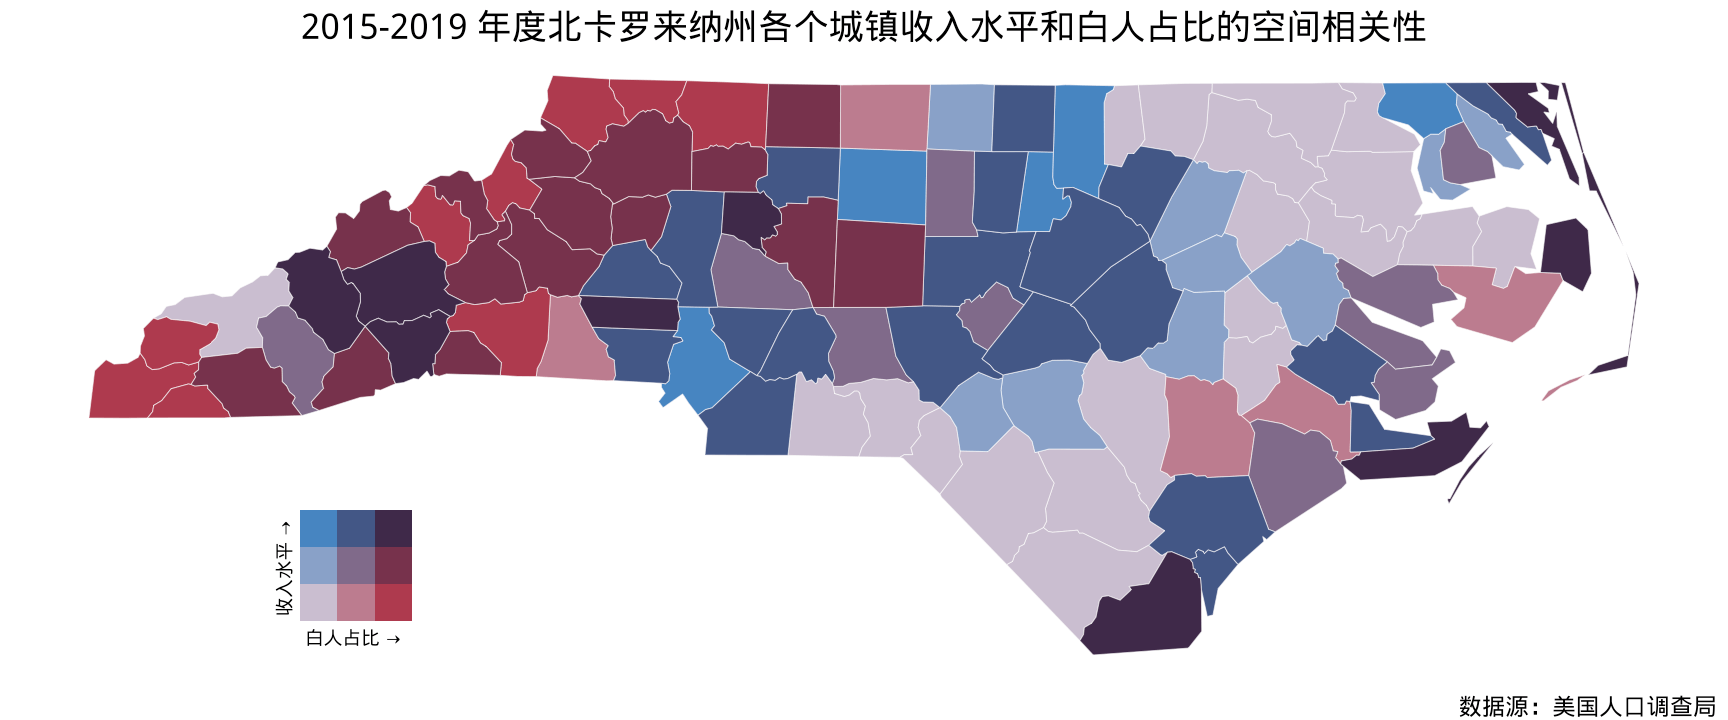
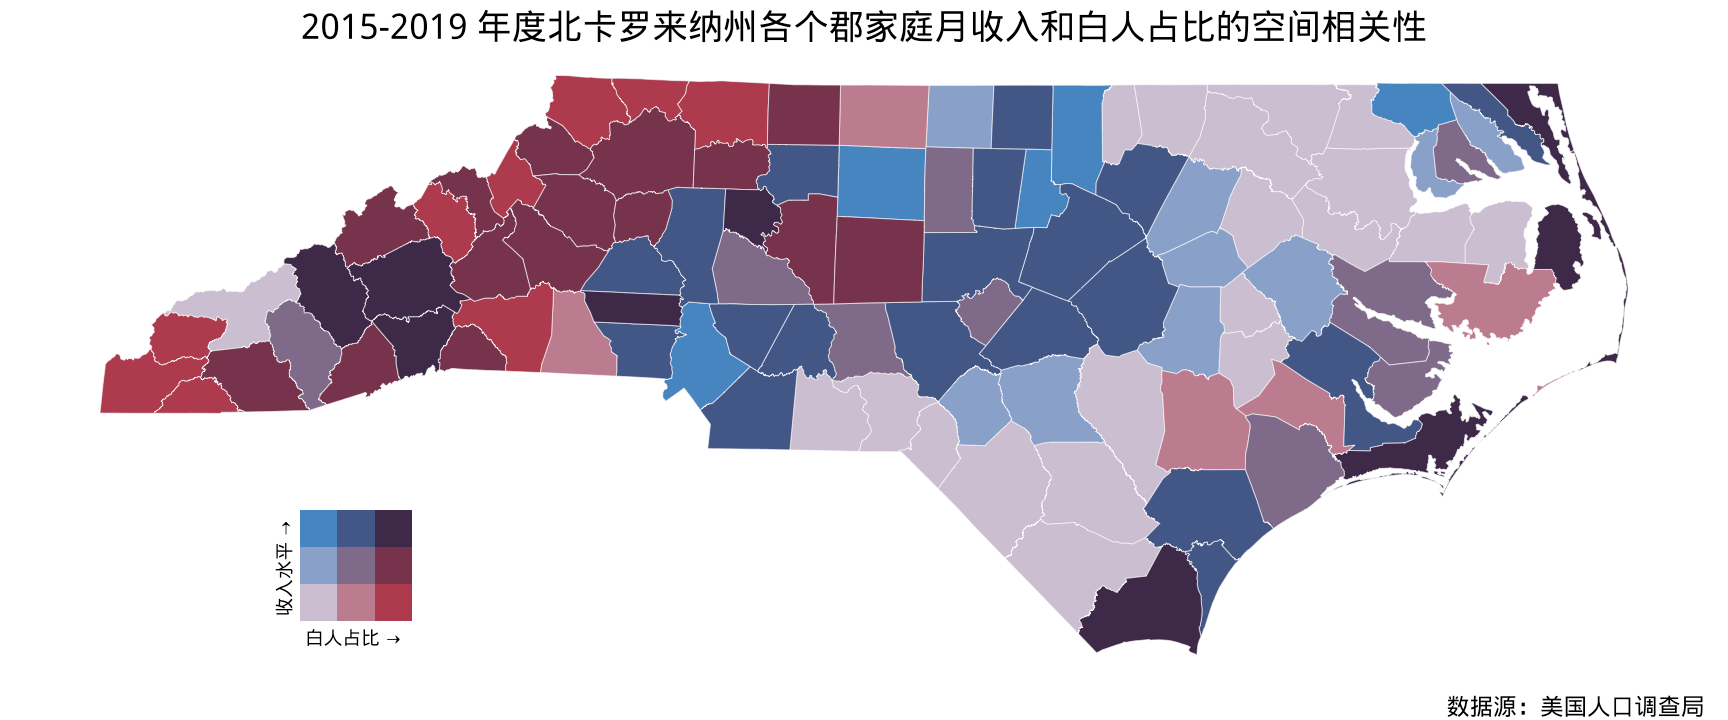
修复北卡社区级家庭月收入的空间分布图，之前手动从网站下载的地图数据有些微的问题，即 ACS 调查的年份 2019 和地图数据的年份 2020 不一致

diff --git a/content/post/2022-04-23-choropleth-map/index.html b/content/post/2022-04-23-choropleth-map/index.html
@@ -18,12 +18,12 @@ tags:
   - lattice
   - sf
   - ggplot2
-link-citations: true
-bibliography: 
-  - refer.bib
 output:
   blogdown::html_page:
     toc: true
+link-citations: true
+bibliography: 
+  - refer.bib
 forum_id: xxx
 description: "在美国和日本的国家统计局官网，地区分布图用于展示各类指标。衡量一个部门、一个业务、一个公司、一个行业，乃至一个国家都有一套金字塔式的指标体系，而国家每年发布的统计年鉴就是衡量国民经济运行状态的指标体系，涵盖人口、土地、生产、消费等等专题，省、市、区县以及自治区、州、县等各级地方统计局每年也会发布一份地方统计年鉴。"
 ---
@@ -50,7 +50,6 @@ description: "在美国和日本的国家统计局官网，地区分布图用于
 <li><a href="#美国北卡州家庭月收入与白人占比的空间相关性" id="toc-美国北卡州家庭月收入与白人占比的空间相关性">美国北卡州家庭月收入与白人占比的空间相关性</a>
 <ul>
 <li><a href="#数据获取" id="toc-数据获取">数据获取</a></li>
-<li><a href="#数据整理" id="toc-数据整理">数据整理</a></li>
 <li><a href="#数据展示" id="toc-数据展示">数据展示</a></li>
 <li><a href="#数据解读" id="toc-数据解读">数据解读</a></li>
 </ul></li>
@@ -1007,7 +1006,7 @@ nc_income_race_tract &lt;- get_acs(
 nc_county_map &lt;- tigris::counties(state = 37, cb = T, year = 2019, class = &quot;sf&quot;)
 # 北卡州社区级地图数据
 nc_tract_map &lt;- tigris::tracts(state = 37, cb = T, year = 2019, class = &quot;sf&quot;)</code></pre>
-<p>数据下载后，保存为两个文件：</p>
+<p>数据下载后，保存为四个文件：</p>
 <ol style="list-style-type: decimal">
 <li><code>nc_income_race_county.rds</code> 北卡州<strong>郡级</strong>家庭月收入和白人数量。</li>
 <li><code>nc_income_race_tract.rds</code> 北卡州<strong>社区级</strong>家庭月收入和白人数量。</li>
@@ -1026,16 +1025,13 @@ View(acs_vars)</code></pre>
 <li><p>若网络不好，查看函数 <code>get_acs()</code> 源码获取数据下载地址，打开浏览器从网页获取，嫌麻烦的话，直接用本文随附的数据吧。</p></li>
 </ol>
 </div>
-<div id="数据整理" class="section level3">
-<h3>数据整理</h3>
-<p>此处略去数据下载整理的过程，整理好的数据集保存到本地文件 <code>nc_income_race_county.rds</code>，整理过程的代码与本文源文档放在一起。</p>
-</div>
 <div id="数据展示" class="section level3">
 <h3>数据展示</h3>
 <p>先看下2015-2019年度美国北卡罗来纳州普查级<strong>家庭月收入</strong>的空间分布，笔者已经以直方图探查过收入的分布情况，因此在图<a href="#fig:us-nc-income">12</a>设置了自定义的收入分段，以体现各个收入阶层：10 万以下<strong>低收入</strong>，10-15 万<strong>中等收入</strong>，15-20万<strong>中高收入</strong>，20-25万<strong>高收入</strong>。除去通货膨胀因素，严格来讲，还应该结合美国官方定义的高、中、低收入的标准，考虑地域差异，即发展程度不同的城市设置不同的高、中、低收入的标准，从而构造出更加合理的、可对比的收入阶层划分。图中空白处表示未收集到相关数据，熟悉北卡州的读者想必能对此图有更加细致的解释。</p>
-<pre class="r"><code>nc_income_race_county &lt;- readRDS(file = &quot;data/nc_income_race_county.rds&quot;)
+<pre class="r"><code># 读取数据
+nc_income_race_county &lt;- readRDS(file = &quot;data/nc_income_race_county.rds&quot;)
 nc_income_race_tract &lt;- readRDS(file = &quot;data/nc_income_race_tract.rds&quot;)
-# 家庭月收入和白人占比数据
+# 计算家庭月收入和白人占比数据
 nc_income_race_tract &lt;- within(nc_income_race_tract, {
   pctWhite &lt;- B02001_002E / B02001_001E
   medInc &lt;- B19013_001E
@@ -1056,11 +1052,11 @@ mtext(
   text = &quot;数据源：美国人口调查局&quot;,
   side = 1, adj = 0.05
 )</code></pre>
-<div class="figure" style="text-align: center"><span style="display:block;" id="fig:us-nc-income"></span>
-<img src="{{< blogdown/postref >}}index_files/figure-html/us-nc-income-1.png" alt="北卡罗来纳州普查水平下家庭月收入的空间分布" width="1152" />
-<p class="caption">
-图 12: 北卡罗来纳州普查水平下家庭月收入的空间分布
-</p>
+<div class="full-width">
+<div class="figure"><span style="display:block;" id="fig:us-nc-income"></span>
+<img src="img/us-nc-income.png" class="full" alt="" />
+<p class="caption">图 12:  北卡罗来纳州普查水平下家庭月收入的空间分布</p>
+</div>
 </div>
 <p>地图数据包含的多边形越多，绘图需要花费时间越多，对于这样大中型的数据集，考虑到 <strong>ggplot2</strong> 有些吃不消，接下来以 <strong>ggplot2</strong> 配合 <strong>sf</strong> 包，将各个数据指标从社区上卷到各个郡。</p>
 <pre class="r"><code>library(sf) 
